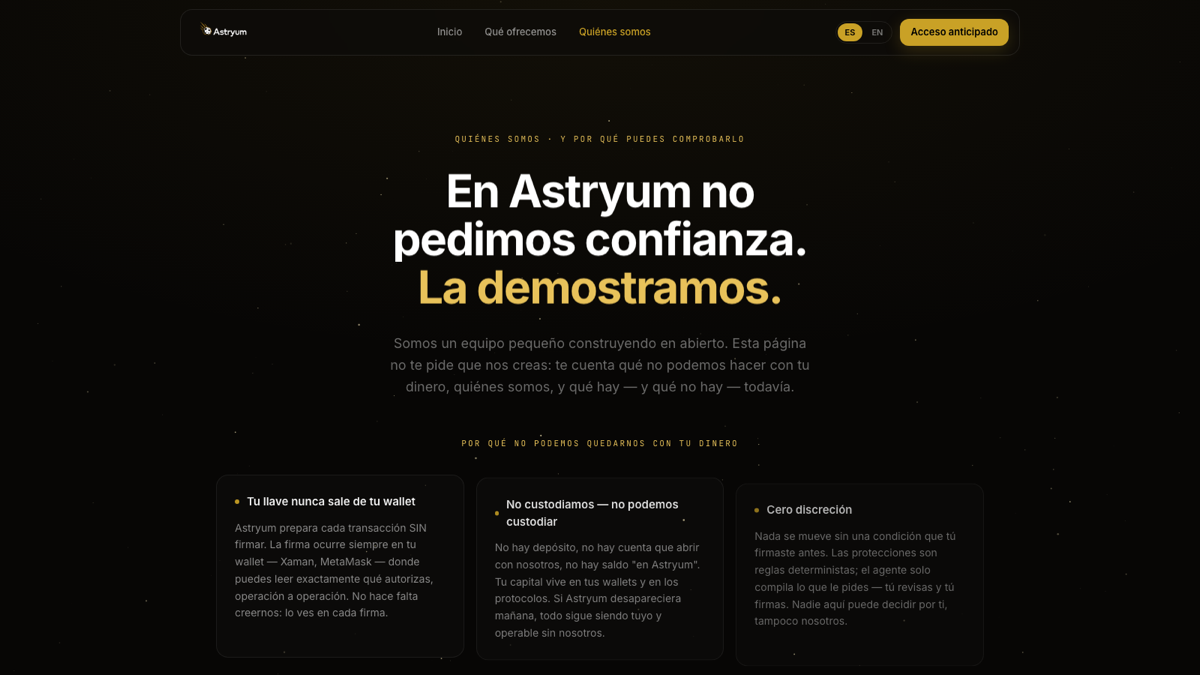
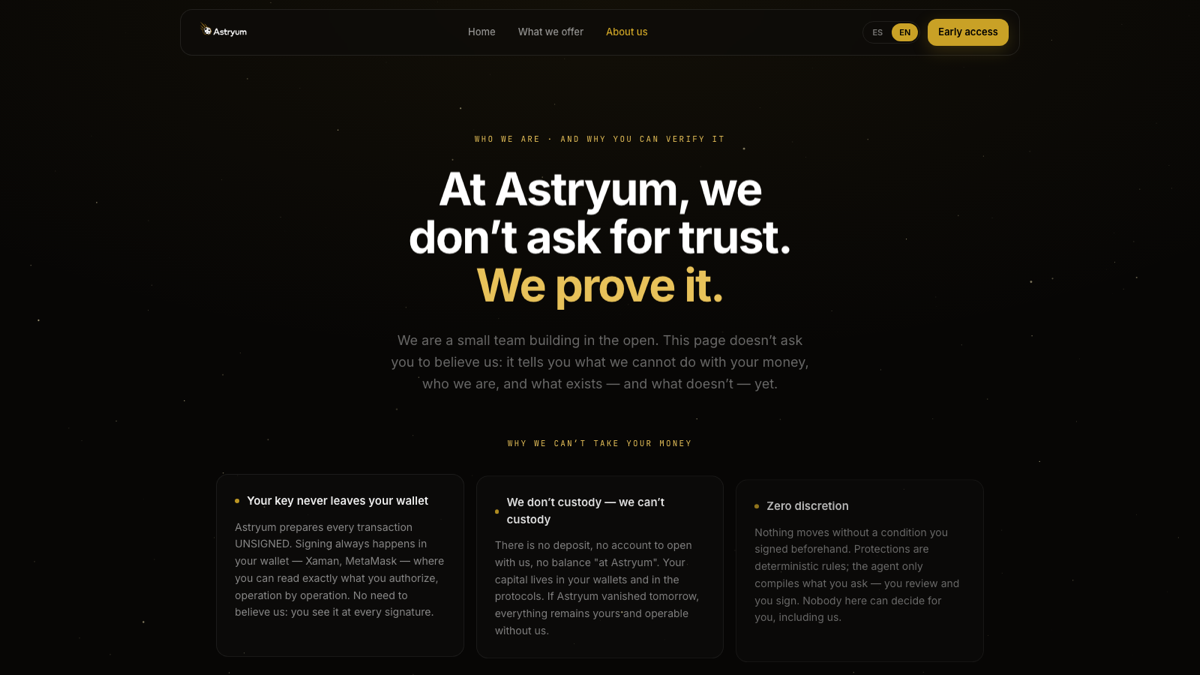
docs(readme): capturas en inglés — el headless heredaba el navigator.language del Mac; --lang=en-US y animaciones completadas

diff --git a/README.md b/README.md
@@ -19,7 +19,7 @@ request early access there; this repository is for reading the code, not for run
 
 <br>
 
-[![Landing — Tu capital. Tu control. Tu firma.](docs/media/landing-hero.png)](https://astryum.xyz)
+[![Landing — Your capital. Your control. Your signature.](docs/media/landing-hero.png)](https://astryum.xyz)
 
 </div>
 
@@ -119,11 +119,11 @@ policies for. No agent, no operator, and no Astryum key can move capital on its 
 
 | The trust page — verifiable claims, not promises | The journey |
 |:---:|:---:|
-| [![About — no pedimos confianza, la demostramos](docs/media/about.png)](https://astryum.xyz/about) | [![Landing journey](docs/media/landing-journey.png)](https://astryum.xyz) |
+| [![About — we don't ask for trust, we prove it](docs/media/about.png)](https://astryum.xyz/about) | [![Landing journey](docs/media/landing-journey.png)](https://astryum.xyz) |
 
 </div>
 
-The product speaks Spanish first by design (its home market); every surface ships EN/ES.
+Every surface ships in English and Spanish (Spanish-first at home, by design).
 
 ## What existed vs. what is new (for judges)
 
